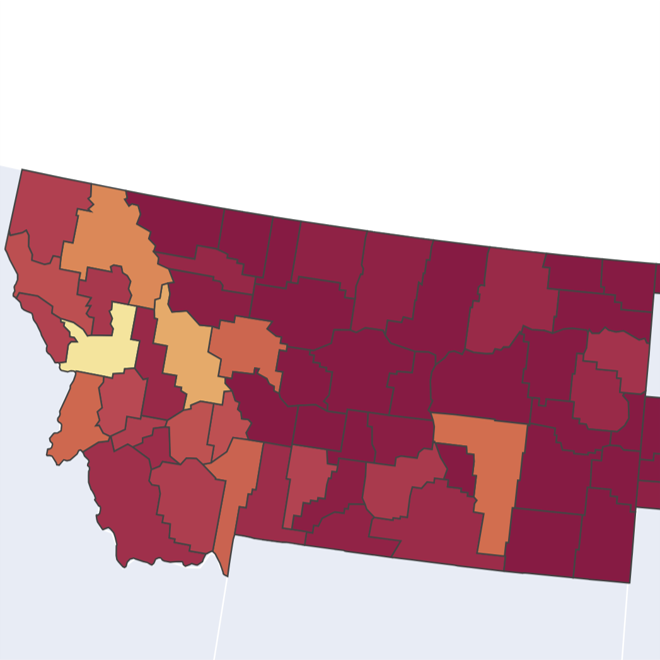
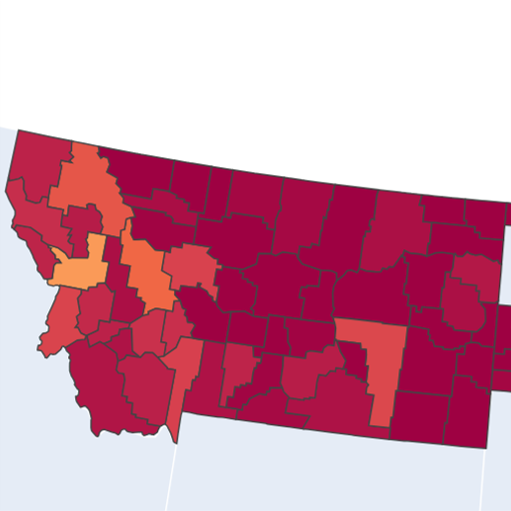
Create visualization section for directory, add first several figures and descriptions

diff --git a/directory.html b/directory.html
@@ -48,16 +48,93 @@
 							<h1>Directory</h1>
 							<h2>Projects</h2>
 							<ul class="alt">
+								<li><a href="national_addresses.html">Address Ado</a>: Big Data, Pattern Discovery, Human Geology</li>
 								<li><a href="letter_games.html">Letter Games</a>: Language, Game Design, Strings</li>
 								<li><a href="reef_fish.html">Reef Fish</a>: Ecology, Networks, Interactive Treemaps</li>
 								<li><a href="statistical_arbitrage.html">Statistical Arbitrage</a>: Economics, Time Series, Cointegration</li>
-								<li><a href="national_addresses.html">Address Ado</a>: Big Data, Pattern Discovery, Human Geology</li>
 							</ul>
 							<h2>Visualizations</h2>
-							<ul>
-								<li><a href="https://github.com/ChrisDavis21/letter-games">GitHub Repository</a></li>
-								<li><a href="https://www.nytimes.com/games/wordle/index.html">Wordle</a></li>
-							</ul>
+							<hr />
+							<p><span class="image leftS"><img src="images/Dir_fig_barchart.png" alt="" /></span>
+							<b><i>Bar charts</i></b> are used for comparing values of categorical data.
+							<li><a href="letter_games.html">Letter Games</a></li>
+							<li><a href="national_addresses.html">Address Ado</a></li>
+							<br>
+							<br>
+							</p>
+							
+							<hr />
+							<p><span class="image leftS"><img src="images/Dir_fig_chorochart.png" alt="" /></span>
+							<b><i>Choropleths</i></b> are used for color-coded geospatial representations.
+							<li><a href="national_addresses.html">Address Ado</a></li>
+							<br>
+							<br>
+							<br>
+							</p>
+							
+							<hr />
+							<p><span class="image leftS"><img src="images/Dir_fig_heatchart.png" alt="" /></span>
+							<b><i>Heatmaps</i></b> show relationships between two variables with a third variable presented as color or shade.
+							<li><a href="letter_games.html">Letter Games</a></li>
+							<li><a href="statistical_arbitrage.html">Statistical Arbitrage</a></li>
+							<br>
+							<br>
+							</p>
+							
+							<hr />
+							<p><span class="image leftS"><img src="images/Dir_fig_linechart.png" alt="" /></span>
+							<b><i>Line charts</i></b> are used for tracking series data, often across time or index.
+							<li><a href="statistical_arbitrage.html">Statistical Arbitrage</a></li>
+							<br>
+							<br>
+							<br>
+							</p>
+							
+							<hr />
+							<p><span class="image leftS"><img src="images/Dir_fig_networkchart.png" alt="" /></span>
+							<b><i>Networks</i></b> show relationships between paired points or coordinates.
+							<li><a href="reef_fish.html">Reef Fish</a></li>
+							<br>
+							<br>
+							<br>
+							</p>
+							
+							<hr />
+							<p><span class="image leftS"><img src="images/Dir_fig_scatterchart.png" alt="" /></span>
+							<b><i>Scatter plots</i></b> are used for relating two numerical variables.
+							<li><a href="statistical_arbitrage.html">Statistical Arbitrage</a></li>
+							<br>
+							<br>
+							<br>
+							</p>
+							
+							<hr />
+							<p><span class="image leftS"><img src="images/Dir_fig_stackchart.png" alt="" /></span>
+							<b><i>Stacked density plots</i></b> show proportions as they change across another series.
+							<li><a href="reef_fish.html">Reef Fish</a></li>
+							<br>
+							<br>
+							<br>
+							</p>
+							
+							<hr />
+							<p><span class="image leftS"><img src="images/Dir_fig_treechart.png" alt="" /></span>
+							<b><i>Treemaps</i></b> show proportions of a whole (better than a pie chart) and allow nesting.
+							<li><a href="reef_fish.html">Reef Fish</a></li>
+							<br>
+							<br>
+							<br>
+							</p>
+							
+							<hr />
+							<p><span class="image leftS"><img src="images/Dir_fig_violinchart.png" alt="" /></span>
+							<b><i>Violin plots</i></b> are used for comparing distributions - similar to boxplots but provide more information about the shape of data.
+							<li><a href="reef_fish.html">Reef Fish</a></li>
+							<br>
+							<br>
+							<br>
+							</p>
+							<hr />
 						</div>
 					</div>
 

diff --git a/resources.html b/resources.html
@@ -55,6 +55,11 @@
 								<li><a href="https://clauswilke.com/dataviz/">Clause Wilke</a>: Fundamentals of Data Visualization</li>
 								<li><a href="https://www.statlearning.com/">ISLP Download</a>: Introduction to Statistical Learning</li>
 								<li><a href="https://hastie.su.domains/Papers/ESLII.pdf">ESLII PDF</a>: Elements of Statistical Learning II</li>
+								<li><a href="https://python-graph-gallery.com/">Python Graph Gallery</a>: Examples and Tutorials for Common Graphs</li>
+								<li><a href="https://www.data-to-viz.com/">Data to Viz</a>: Choosing Graphs</li>
+								<li><a href="https://www.visualcinnamon.com/portfolio/">Visual Cinnamon</a>: Extraordinary Commercial Projects</li>
+								<li><a href="https://flowingdata.com/chart-types/">Flowing Data</a>: Chart Types and Regular Posts</li>
+								<li><a href="https://visualisingdata.com/resources/">Visualizing Data</a>: Resource of Resources (Extensive)</li>
 							</ul>
 							<hr />
 							<b>Tools & Code</b>
@@ -63,6 +68,7 @@
 								<li><a href="https://coolors.co/">Coolors</a>: Color Palette Picker</li>
 								<li><a href="http://davidbau.com/colors/">David Bau</a>: CSS Colors Sorted</li>
 								<li><a href="https://colorbrewer2.org/">Color Brewer</a>: Choropleth Colorguide</li>
+								<li><a href="https://colorpalettes.net/">Color Palettes</a>: Tagged, or Themed Color Palettes</li>
 							</ul>
 							<hr />
 							<b>Databases</b>
@@ -72,6 +78,22 @@
 								<li><a href="https://archive.ics.uci.edu/">UC Irvine ML</a>: UCI repository for training ML</li>
 								<li><a href="https://data.gov/">Data.gov</a>: US governments open data</li>
 								<li><a href="https://www.dataroma.com/m/home.php">Dataroma</a>: Financial data focused on tracking funds & "insider" trades</li>
+							</ul>
+							<hr />
+							<b>Python Libraries</b>
+							<ul>
+								<li><a href="https://www.kaggle.com/datasets">Matplotlib</a>: Fundamental Graphing & Data Visualization</li>
+								<li><a href="https://data.nasdaq.com/search">Pandas</a>: Data Tables</li>
+								<li><a href="https://archive.ics.uci.edu/">Numpy</a>: Math, Arrays, etc.</li>
+								<li><a href="https://data.gov/">Plotly</a>: Interactive or Complex Figures</li>
+								<li><a href="https://seaborn.pydata.org/">Seaborn</a>: Dataframe to Figure Creation</li>
+								<li><a href="https://pypi.org/project/pyspark/">Pyspark</a>: Big-Data Processing Tool</li>
+								<li><a href="https://www.statsmodels.org/stable/index.html">Statsmodels</a>: Statistics Package: Tests, Models, Function ++</li>
+								<li><a href="https://pypi.org/project/beautifulsoup4/">bs4</a>: Web Scraping & Text Processing</li>
+								<li><a href="https://pypi.org/project/addfips/">Addfips</a>: Convert GeoData to FIPS Format</li>
+								<li><a href="https://python-graph-gallery.com/pyfonts/">Pyfonts</a>: Use any Google Font</li>
+								<li><a href="https://python-graph-gallery.com/color-palette-finder/">PyPalettes</a>: Large Library of Color Palettes</li>
+								<li><a href="https://geopandas.org/en/stable/">Geopandas</a>: Static Choropleths</li>
 							</ul>
 						</div>
 					</div>

diff --git a/assets/css/main.css b/assets/css/main.css
@@ -2345,14 +2345,22 @@ input, select, textarea {
 			.image.leftM img, .image.rightM img {
 				width: 100%;
 			}
+			
+		.image.leftS, .image.rightS {
+			max-width: 18.0%;
+		}
 
-		.image.leftB, .image.left, .image.leftM {
+			.image.leftS img, .image.rightS img {
+				width: 100%;
+			}
+
+		.image.leftB, .image.left, .image.leftM, .image.leftS {
 			float: left;
 			padding: 0 1.5em 1em 0;
 			top: 0.25em;
 		}
 
-		.image.rightB, .image.right, .image.rightM {
+		.image.rightB, .image.right, .image.rightM, .image.rightS {
 			float: right;
 			padding: 0 0 1em 1.5em;
 			top: 0.25em;

diff --git a/DirectoryImageGen.py b/DirectoryImageGen.py
@@ -1,0 +1,164 @@
+# Christopher Davis
+# September 2024
+# File for creating all figures for the Directory html page
+
+import numpy as np
+import matplotlib
+import matplotlib.pyplot as plt
+import pandas as pd
+import seaborn
+import os
+import geopandas as gpd
+from urllib.request import urlopen
+import json
+import matplotlib.patches as mpatches
+
+'''
+Unused but want to use at some point
+* Dendogram
+* Sankey Diagram
+* Chord Diagram
+'''
+
+# Colors
+from pypalettes import load_cmap
+cmap = load_cmap('grovyle')
+# groudon, grovyle, anorith, huntail, info2, nuzleaf
+cmaplist = cmap.colors
+
+# Styling
+TitleLoc = 'left'
+FigDPIs = 300
+FigSize = (2,2.2)
+FigEdgecolor = 'white'
+FigFacecolor = 'white'
+titlefontsize = 10.5
+AxesFontSize = 6
+
+# Fake Data
+CatNames = ['A', 'B', 'C', 'D', 'E']
+CatValues = [26, 34, 19, 5, 16] 
+SequentialX = np.linspace(1,58,19)
+SequentialY1 = [4, 7, 6, 8, 2, 1, 6, 9, 11, 12, 3, 8, 1, 15, 18, 3, 12, 23, 19]
+SequentialY2 = [21, 14, 19, 17, 11, 15, 12, 19, 17, 11, 14, 8, 7, 15, 6, 3, 4, 12, 8]
+BiggerData = SequentialY1 + SequentialY2
+Random2D = np.random.rand(8,8)
+
+# Barchart
+fig_barchart, ax_barchart = plt.subplots(figsize=FigSize)
+ax_barchart.bar(CatNames, CatValues, color=cmap.colors)
+ax_barchart.set_title('Bar Chart', loc=TitleLoc, fontsize = titlefontsize)
+
+# Line Plot
+fig_linechart, ax_linechart = plt.subplots(figsize=FigSize)
+ax_linechart.plot(SequentialX, SequentialY1, color=cmaplist[0])
+ax_linechart.plot(SequentialX, SequentialY2, color=cmaplist[2])
+ax_linechart.set_title('Line Chart', loc=TitleLoc, fontsize = titlefontsize)
+
+# Scatter Plot
+fig_scatterchart, ax_scatterchart = plt.subplots(figsize=FigSize)
+ax_scatterchart.scatter(SequentialY1, SequentialY2, color=cmaplist[0])
+ax_scatterchart.set_title('Scatter Plot', loc=TitleLoc, fontsize = titlefontsize)
+
+# Heat Map
+fig_heatchart, ax_heatchart = plt.subplots(figsize=FigSize)
+ax_heatchart.imshow(Random2D, cmap=cmap)
+ax_heatchart.set_title('Heatmap', loc=TitleLoc, fontsize = titlefontsize)
+
+# Violin Plot
+fig_violinchart, ax_violinchart = plt.subplots(figsize=FigSize)
+violin_parts = ax_violinchart.violinplot([sorted(BiggerData)[10:30], sorted(BiggerData)[0:20], sorted(BiggerData)[20:38]], [0,1,2], widths = 0.75, bw_method = 0.25, showmeans = True, showextrema = False)
+ax_violinchart.set_title('Violin Plot', loc=TitleLoc, fontsize = titlefontsize)
+for q, vp in enumerate(violin_parts['bodies']):
+    vp.set_facecolor(cmaplist[q])
+    vp.set_edgecolor('black')
+    vp.set_linewidth(1.5)
+    vp.set_alpha(0.75)
+vp = violin_parts['cmeans']
+vp.set_edgecolor('black')
+vp.set_linewidth(1.5)
+
+# Choropleth
+fig_chorochart, ax_chorochart = plt.subplots(1, 1, figsize = FigSize)
+ax_chorochart.set_title('Choropleth', loc=TitleLoc, fontsize = titlefontsize)
+gdf = gpd.read_file('https://raw.githubusercontent.com/plotly/datasets/master/geojson-counties-fips.json')
+gdf = gdf.loc[gdf['STATE'] == '22']
+gdf.plot(column="id", categorical=False, cmap=cmap, ax = ax_chorochart)
+ax_chorochart.set_box_aspect(1)
+
+# Network
+fig_networkchart, ax_networkchart = plt.subplots(figsize=FigSize)
+ax_networkchart.set_title('Network', loc=TitleLoc, fontsize = titlefontsize)
+Coords = list(map(lambda x, y:(x,y), SequentialY1, SequentialY2))
+for x in Coords:
+    for y in Coords:
+        dist = np.sqrt((abs(x[0]-y[0]))**2 + (abs(x[1]-y[1]))**2)
+        if dist < 6:
+            ax_networkchart.plot([x[0], y[0]],[x[1], y[1]],marker = 'o', markersize = 6, markeredgecolor = cmaplist[0], markerfacecolor=cmaplist[0], color=cmap(dist/6))
+
+
+# Treemap
+fig_treechart, ax_treechart = plt.subplots(figsize=FigSize)
+ax_treechart.set_title('Treemap', loc=TitleLoc, fontsize = titlefontsize)
+# Create the Rectangles Starts & Widths based on the five categorical proportion values.
+Gap = 0.15
+C1 = (Gap, Gap)
+R1 = ((CatValues[0]+CatValues[1])/10-Gap*1.5, 10-Gap*2)
+C2 = (R1[0]+Gap*2, Gap)
+R2 = ((CatValues[2]+CatValues[3]+CatValues[4])/10 - Gap*1.5, 10-Gap*2)
+C3 = (Gap*2, Gap*2); 
+R3 = (R1[0]-Gap*2, 10*CatValues[0]/(CatValues[0]+CatValues[1]) - Gap*2)
+C4 = (Gap*2, C3[1]+R3[1]+Gap)
+R4 = (R1[0]-Gap*2, 10*CatValues[1]/(CatValues[0]+CatValues[1]) - Gap*3)
+C5 = (R1[0]+Gap*3, Gap*2); 
+R5 = (R2[0]-Gap*2, 10*CatValues[2]/(CatValues[2]+CatValues[3]+CatValues[4]) - Gap*2)
+C6 = (R1[0]+Gap*3, C5[1]+R5[1]+Gap)
+R6 = (R2[0]-Gap*2, 10*CatValues[3]/(CatValues[2]+CatValues[3]+CatValues[4]) - Gap*2)
+C7 = (R1[0]+Gap*3, C6[1]+R6[1]+Gap)
+R7 = (R2[0]-Gap*2, 10*CatValues[4]/(CatValues[2]+CatValues[3]+CatValues[4]) - Gap*2)
+C8 = (C4[0]+Gap, C4[1]+Gap)
+R8 = (R4[0]/3 - Gap*1.5, R4[1]-Gap*2)
+C9 = (C8[0]+R8[0]+Gap, C4[1]+Gap)
+R9 = (2*R4[0]/3 - Gap*1.5, R4[1]-Gap*2)
+ax_treechart.add_artist(mpatches.Rectangle(C1, R1[0], R1[1], ec="black", fc = cmaplist[0], linewidth = 0.5))
+ax_treechart.add_artist(mpatches.Rectangle(C2, R2[0], R2[1], ec="black", fc = cmaplist[1], linewidth = 0.5))
+ax_treechart.add_artist(mpatches.Rectangle(C3, R3[0], R3[1], ec="black", fc = cmaplist[2], linewidth = 0.5))
+ax_treechart.add_artist(mpatches.Rectangle(C4, R4[0], R4[1], ec="black", fc = cmaplist[3], linewidth = 0.5))
+ax_treechart.add_artist(mpatches.Rectangle(C5, R5[0], R5[1], ec="black", fc = cmaplist[4], linewidth = 0.5))
+ax_treechart.add_artist(mpatches.Rectangle(C6, R6[0], R6[1], ec="black", fc = cmaplist[5], linewidth = 0.5))
+ax_treechart.add_artist(mpatches.Rectangle(C7, R7[0], R7[1], ec="black", fc = cmaplist[6], linewidth = 0.5))
+ax_treechart.add_artist(mpatches.Rectangle(C8, R8[0], R8[1], ec="black", fc = cmaplist[7], linewidth = 0.5))
+ax_treechart.add_artist(mpatches.Rectangle(C9, R9[0], R9[1], ec="black", fc = cmaplist[8], linewidth = 0.5))
+ax_treechart.set_xlim([0,10]); ax_treechart.set_ylim([0,10])
+
+# Stacked Density Plot
+fig_stackchart, ax_stackchart = plt.subplots(figsize=FigSize)
+StackInter = np.asarray(SequentialY2)+np.asarray(SequentialY1)
+ax_stackchart.plot(SequentialX, SequentialY1, color='black')
+ax_stackchart.plot(SequentialX, StackInter, color='black')
+ax_stackchart.fill_between(SequentialX, SequentialY1, [0]*len(StackInter), color=cmaplist[0])
+ax_stackchart.fill_between(SequentialX, SequentialY1, StackInter, color=cmaplist[1])
+ax_stackchart.fill_between(SequentialX, StackInter, [50]*len(StackInter), color=cmaplist[2])
+ax_stackchart.set_title('Stacked Density Chart', loc=TitleLoc, fontsize = titlefontsize)
+
+# All Figure Formatting
+for ax in [ax_barchart, ax_linechart, ax_scatterchart, ax_heatchart, ax_violinchart, ax_chorochart, ax_networkchart, ax_treechart, ax_stackchart]:
+    ax.set_xticks([])
+    ax.set_yticks([])
+    
+for fig in [fig_barchart, fig_linechart, fig_scatterchart, fig_heatchart, fig_violinchart, fig_chorochart, fig_networkchart, fig_treechart, fig_stackchart]:
+    fig.subplots_adjust(hspace = 0.0, wspace = 0.0, left = 0.025, right = 0.975, top = 0.9, bottom = 0.025)
+
+# Saveing & Showing
+os.chdir("images")
+fig_barchart.savefig('Dir_'+'fig_barchart'+'.png', edgecolor=FigEdgecolor, dpi=FigDPIs, facecolor=FigFacecolor, transparent=True)
+fig_linechart.savefig('Dir_'+'fig_linechart'+'.png', edgecolor=FigEdgecolor, dpi=FigDPIs, facecolor=FigFacecolor, transparent=True)
+fig_scatterchart.savefig('Dir_'+'fig_scatterchart'+'.png', edgecolor=FigEdgecolor, dpi=FigDPIs, facecolor=FigFacecolor, transparent=True)
+fig_heatchart.savefig('Dir_'+'fig_heatchart'+'.png', edgecolor=FigEdgecolor, dpi=FigDPIs, facecolor=FigFacecolor, transparent=True)
+fig_violinchart.savefig('Dir_'+'fig_violinchart'+'.png', edgecolor=FigEdgecolor, dpi=FigDPIs, facecolor=FigFacecolor, transparent=True)
+fig_chorochart.savefig('Dir_'+'fig_chorochart'+'.png', edgecolor=FigEdgecolor, dpi=FigDPIs, facecolor=FigFacecolor, transparent=True)
+fig_networkchart.savefig('Dir_'+'fig_networkchart'+'.png', edgecolor=FigEdgecolor, dpi=FigDPIs, facecolor=FigFacecolor, transparent=True)
+fig_treechart.savefig('Dir_'+'fig_treechart'+'.png', edgecolor=FigEdgecolor, dpi=FigDPIs, facecolor=FigFacecolor, transparent=True)
+fig_stackchart.savefig('Dir_'+'fig_stackchart'+'.png', edgecolor=FigEdgecolor, dpi=FigDPIs, facecolor=FigFacecolor, transparent=True)
+
+#plt.show()
